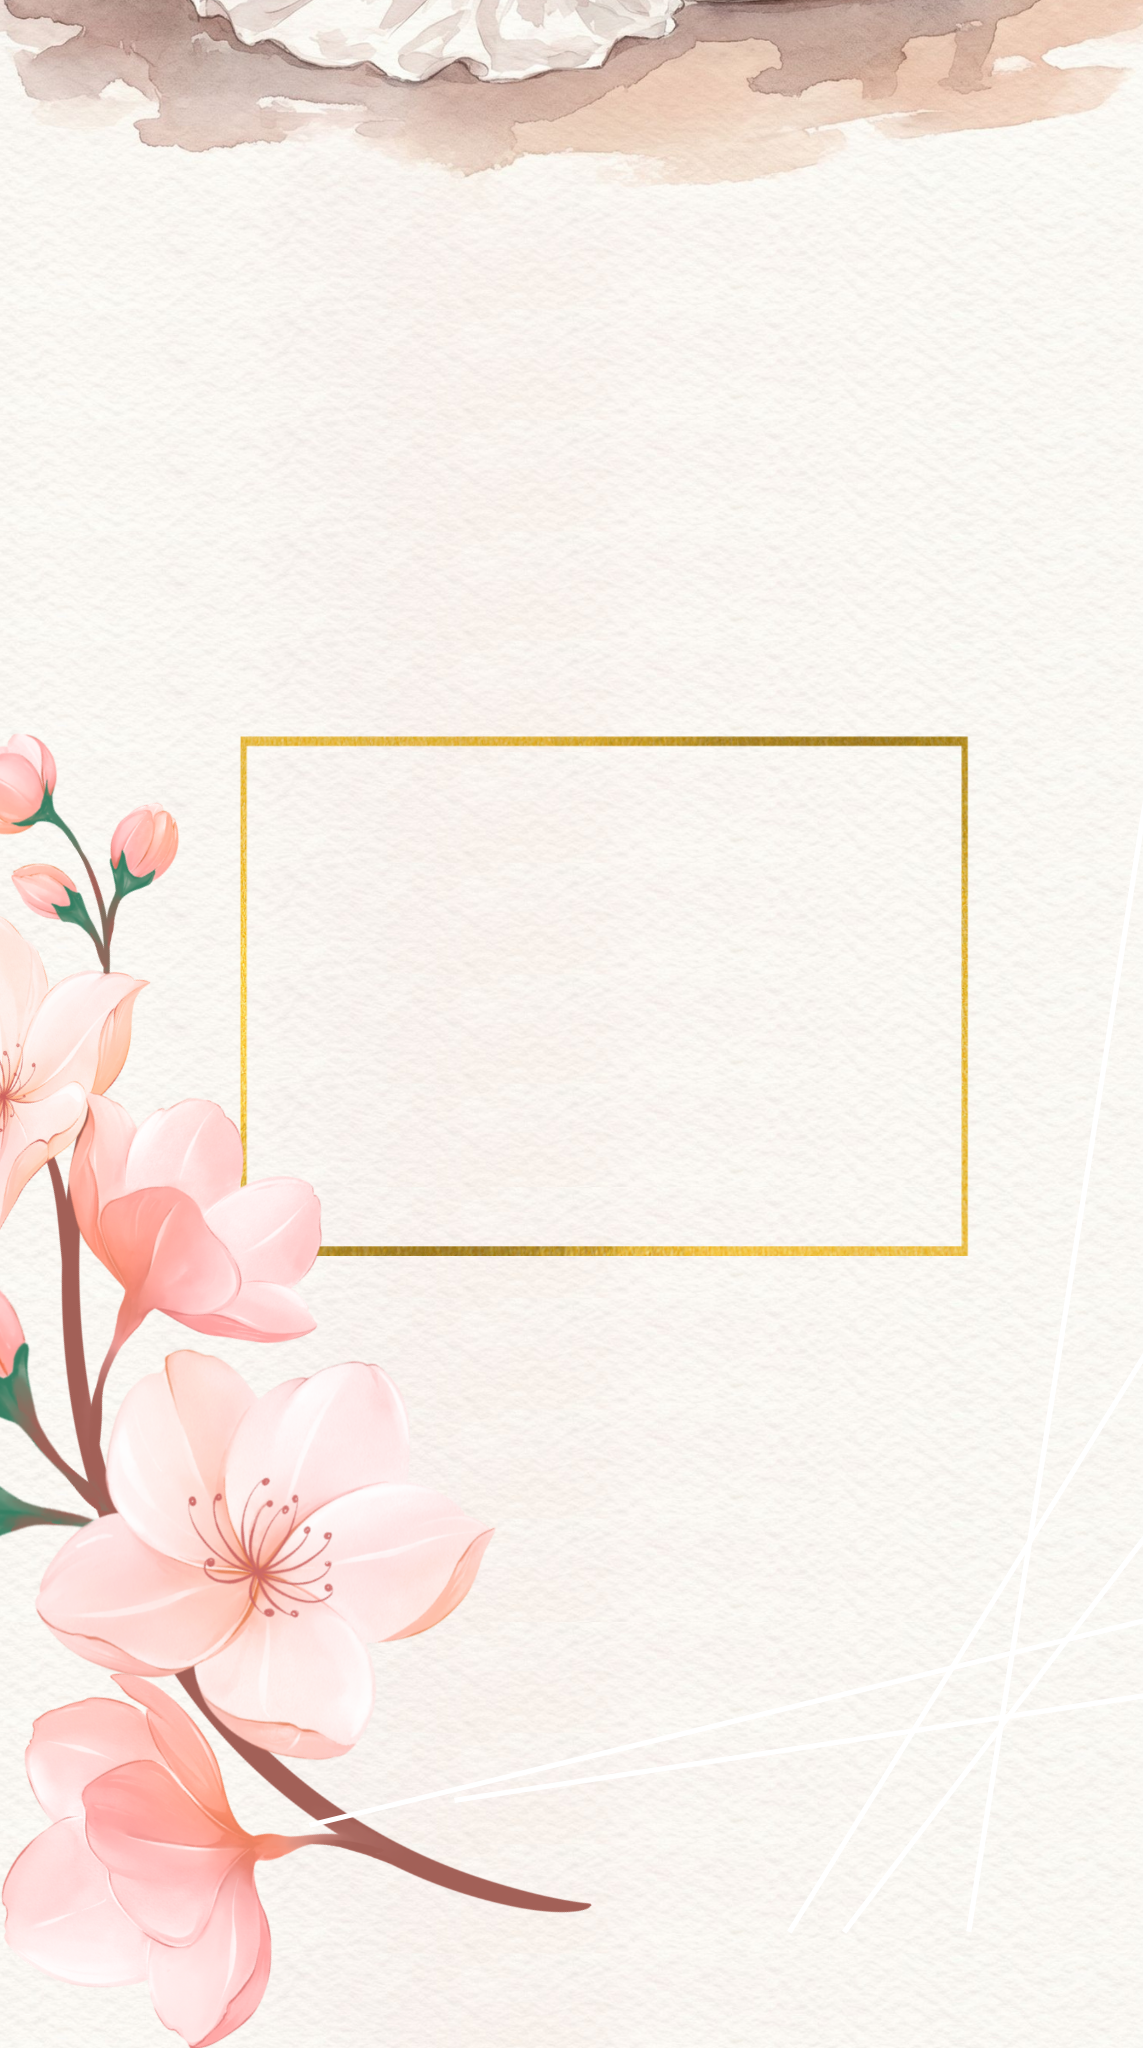
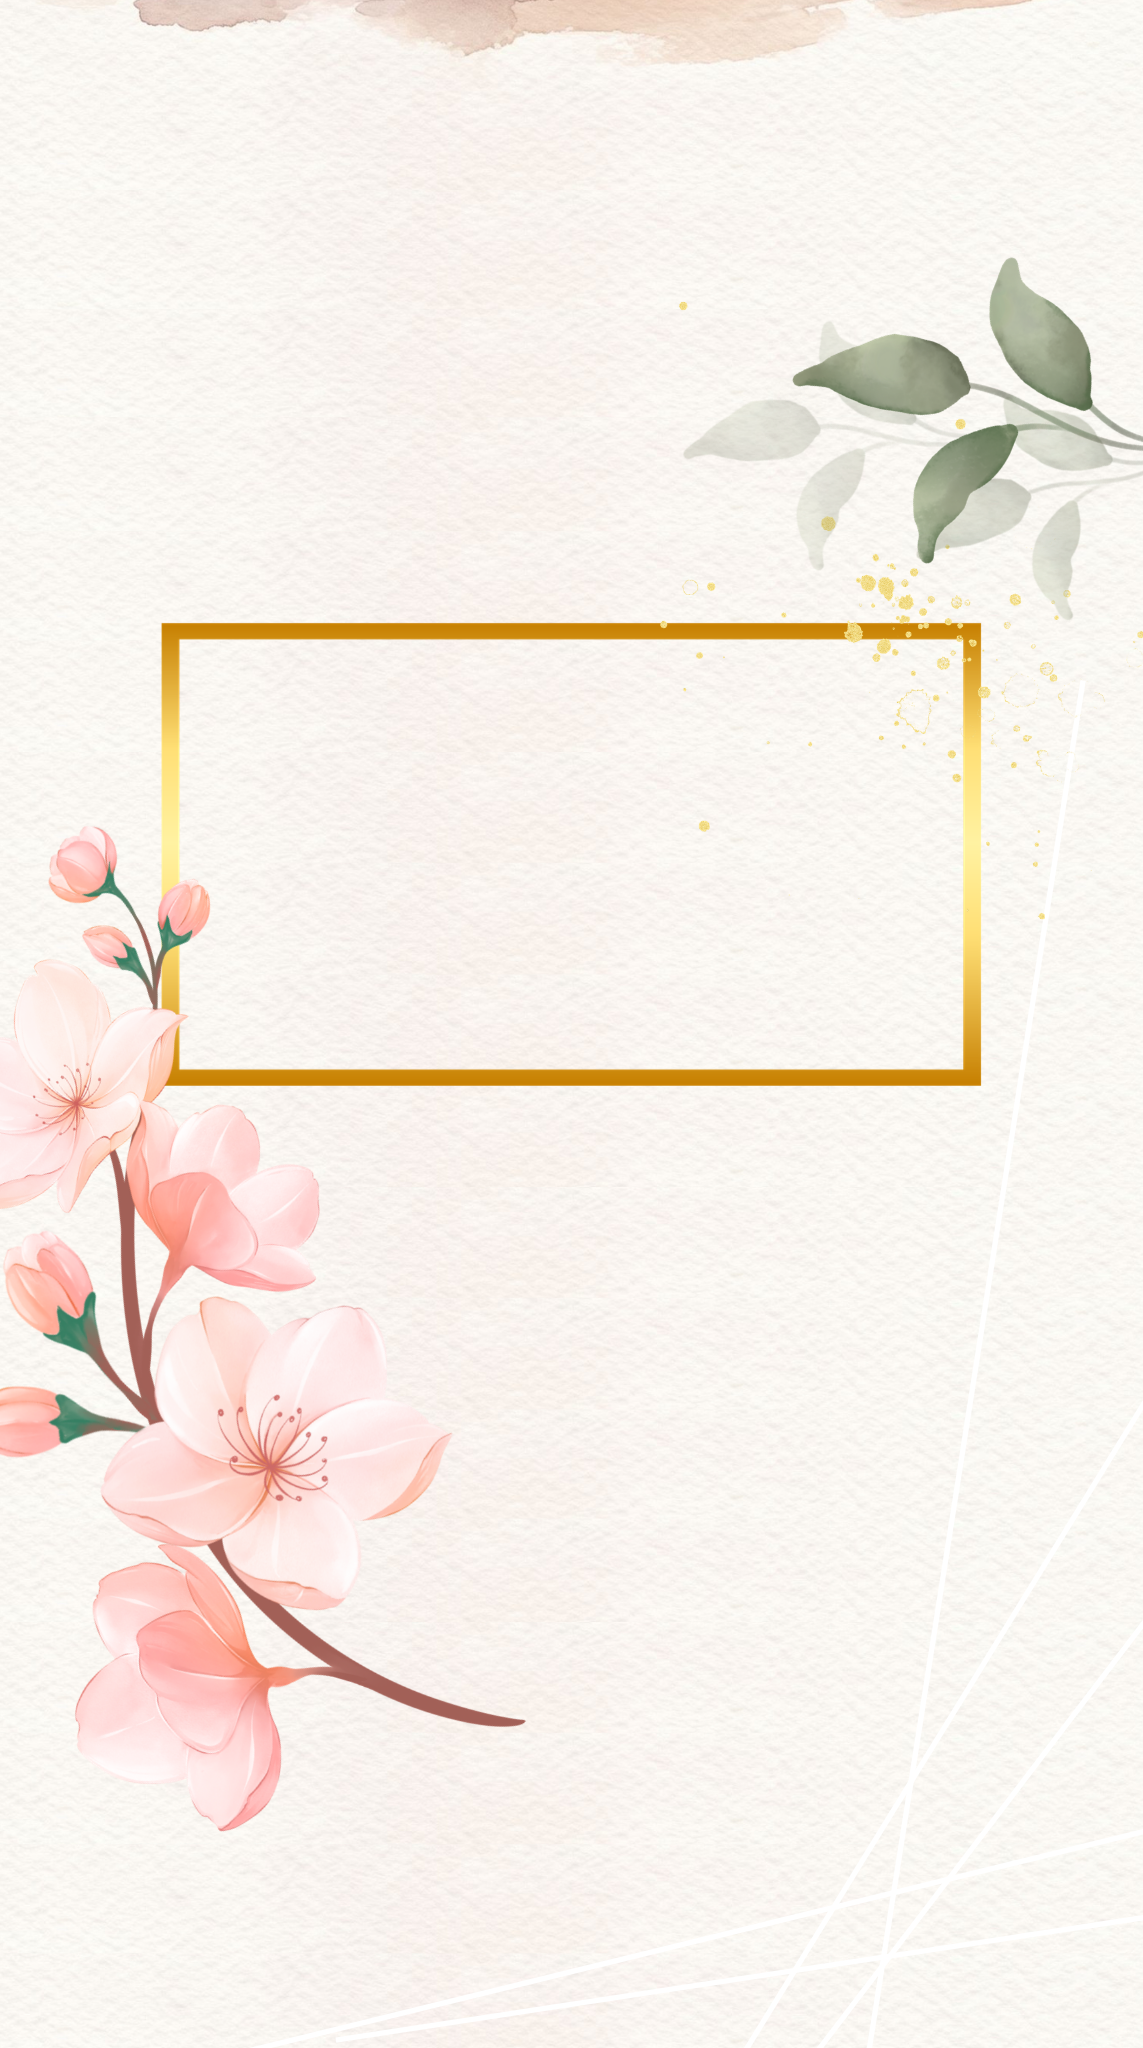
Cuenta regresiva titulos

Changed region(s): [[0.0, 0.125, 1.0, 1.0], [0.0, 0.0, 1.0, 0.0938]]

diff --git a/src/components/wedding/Countdown.tsx b/src/components/wedding/Countdown.tsx
@@ -84,7 +84,7 @@ export function Countdown({ language }: { language: Language }) {
             whileInView={{ opacity: 1, y: 0 }}
             viewport={{ once: true }}
             transition={{ duration: 1, delay: 0.25 }}
-            className="mt-3 font-serif text-4xl font-light italic leading-[1.1] sm:text-5xl md:text-6xl"
+            className="mt-3 font-display text-5xl font-light leading-none text-foreground sm:text-6xl md:text-7xl"
           >
             {text.title}
             <br />
